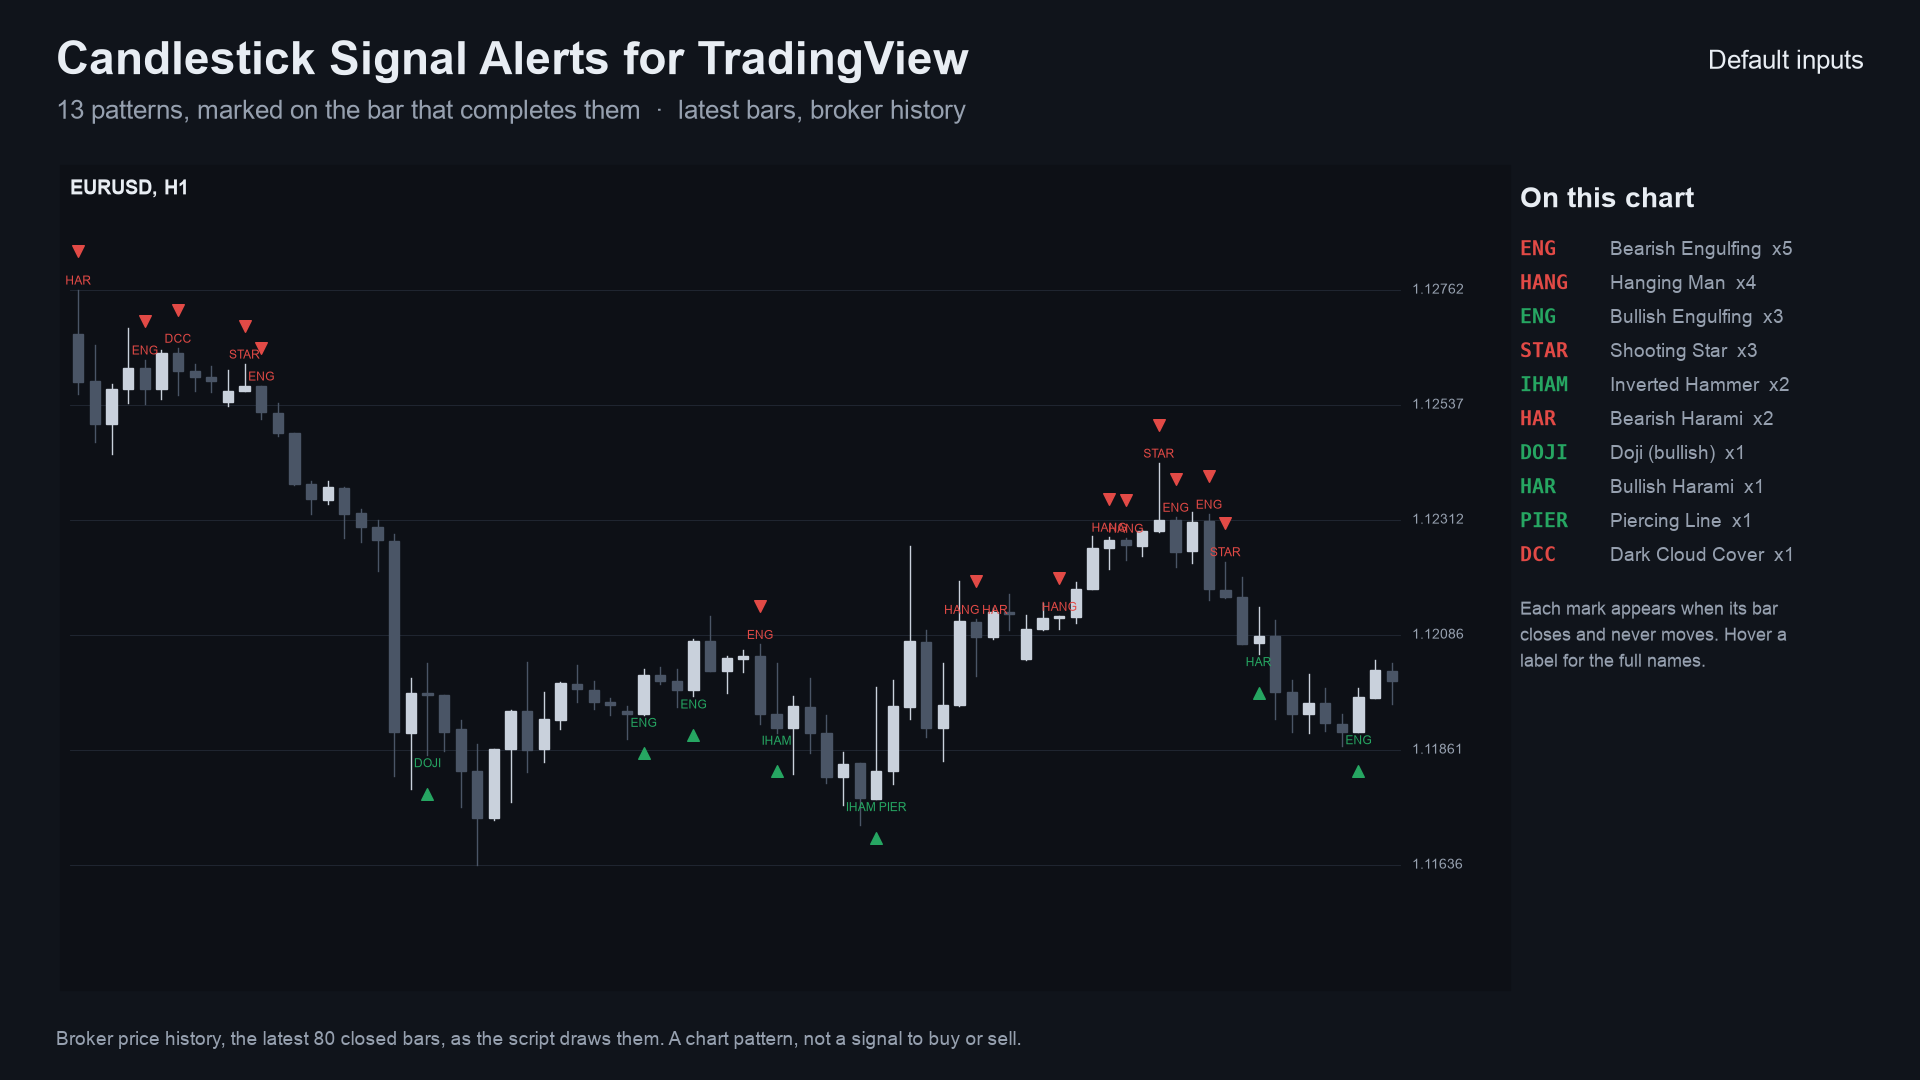
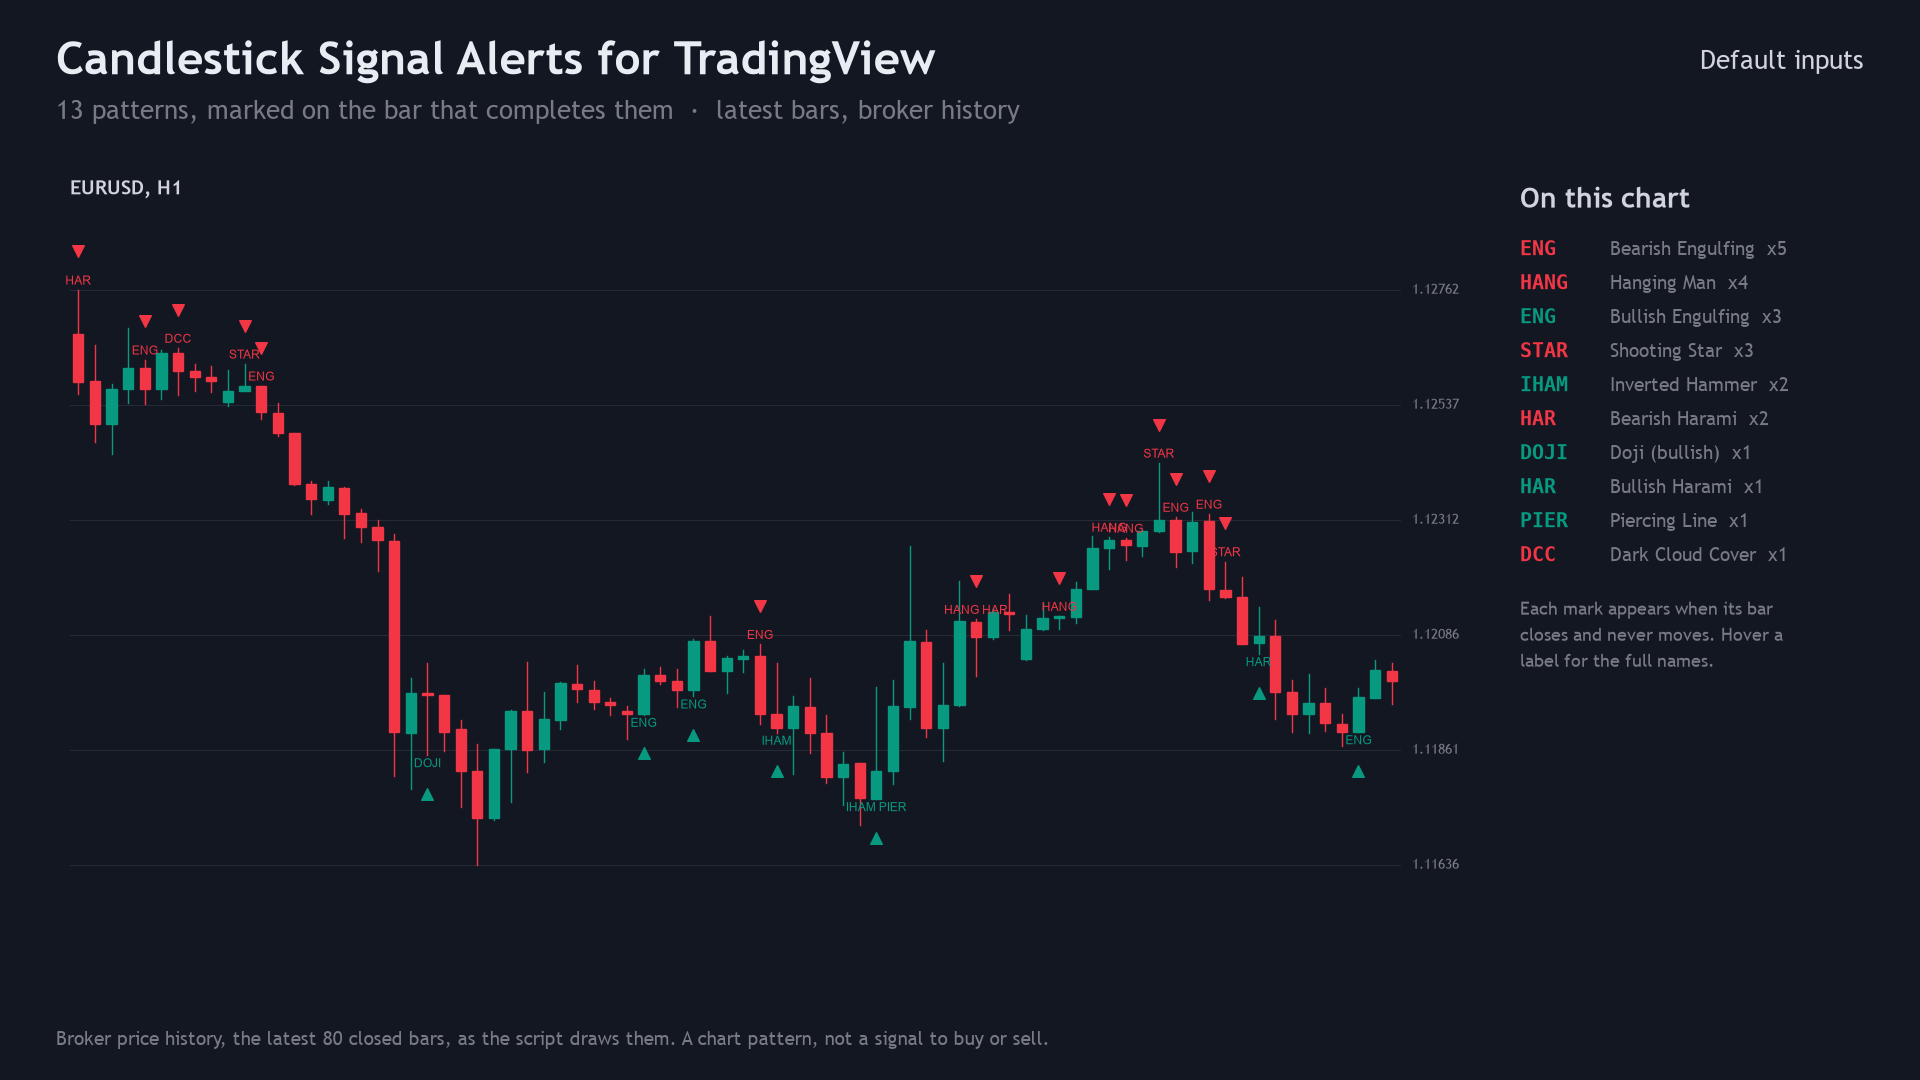
TradingView default colours (#089981 / #F23645), TradingView-styled images; tests re-run on this code: ALL PASS

diff --git a/README.md b/README.md
@@ -140,7 +140,7 @@ This was tested, not only reasoned about: see [Tests](#tests).
 |---|---|---|
 | Engulfing, Hammer and Hanging Man, Inverted Hammer and Shooting Star, Doji, Morning Star and Evening Star, Harami, Piercing Line and Dark Cloud Cover | all on | Switch a group of patterns on or off |
 | Short labels | on | Write the short name next to each arrow (hover for full names). TradingView keeps the latest 500 labels |
-| Bullish, Bearish | green, red | Colours |
+| Bullish, Bearish | `#089981`, `#F23645` | Colours (TradingView's own candle colours by default) |
 | Label size | tiny | tiny, small or normal |
 
 Every input has a tooltip in the settings dialog. Two hidden plots, "Bullish patterns (bit mask)" and "Bearish patterns
